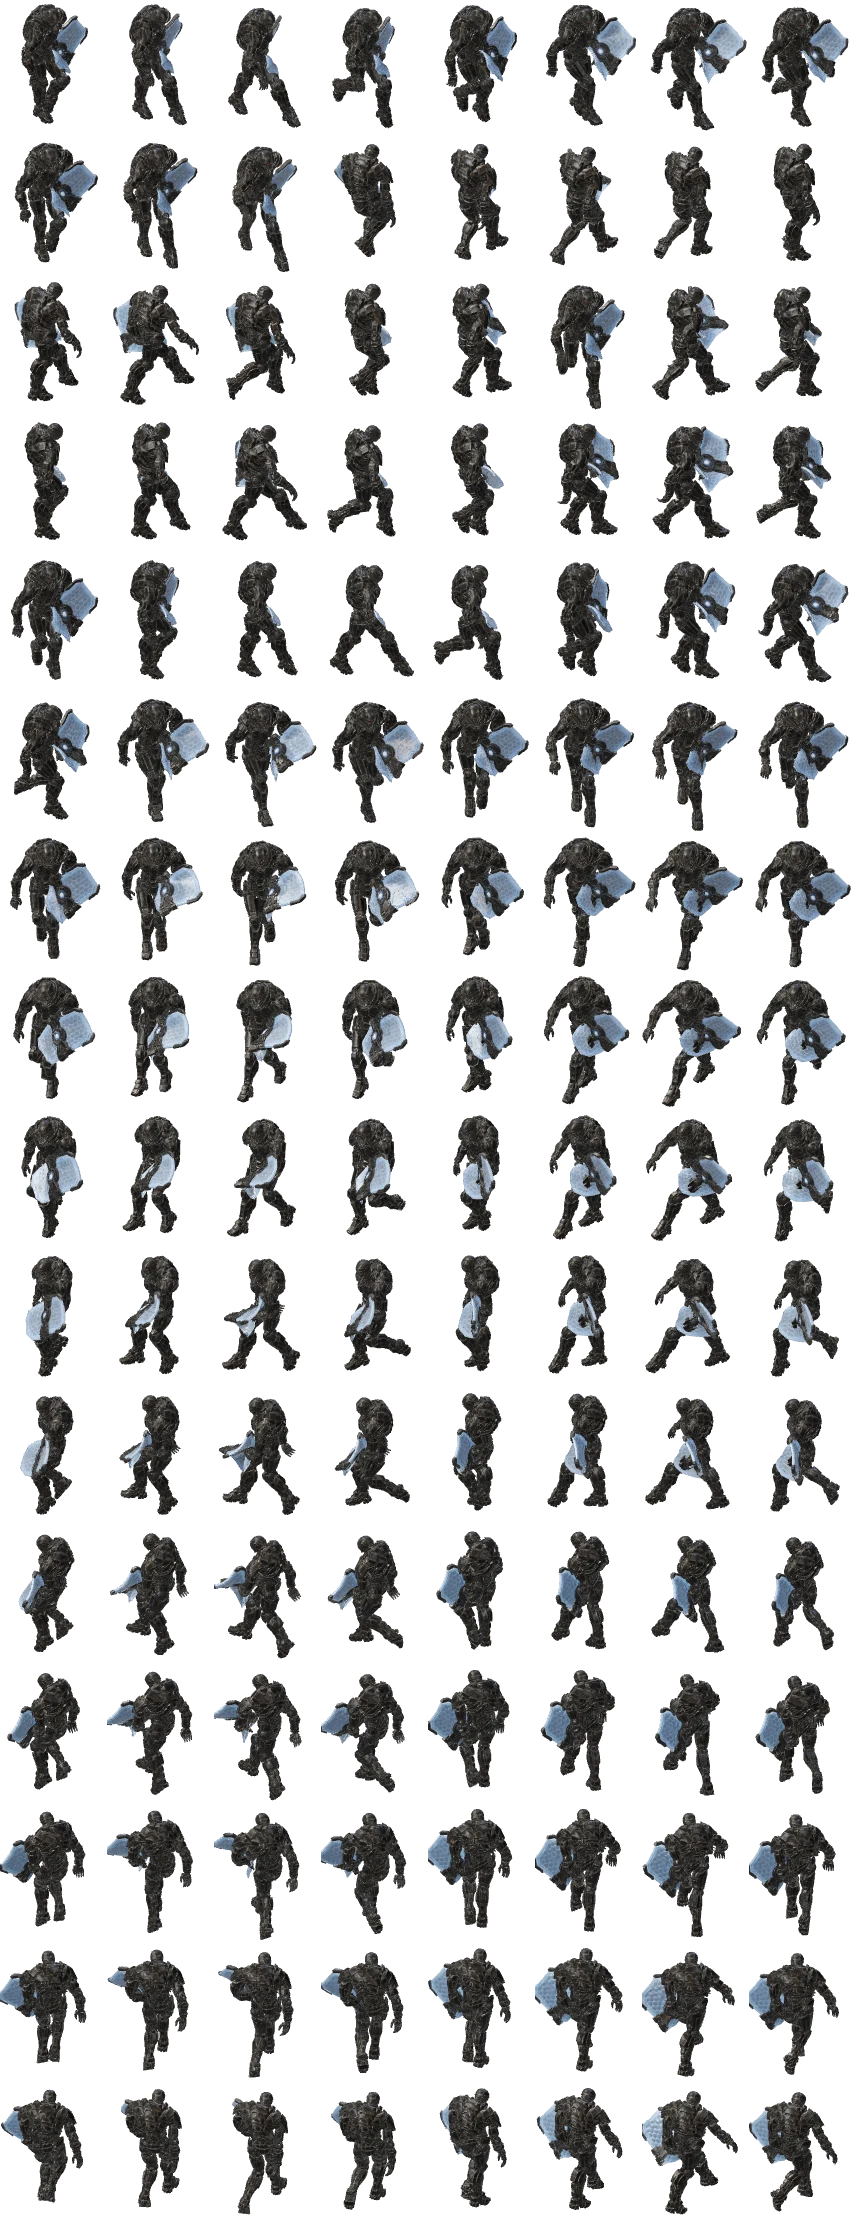
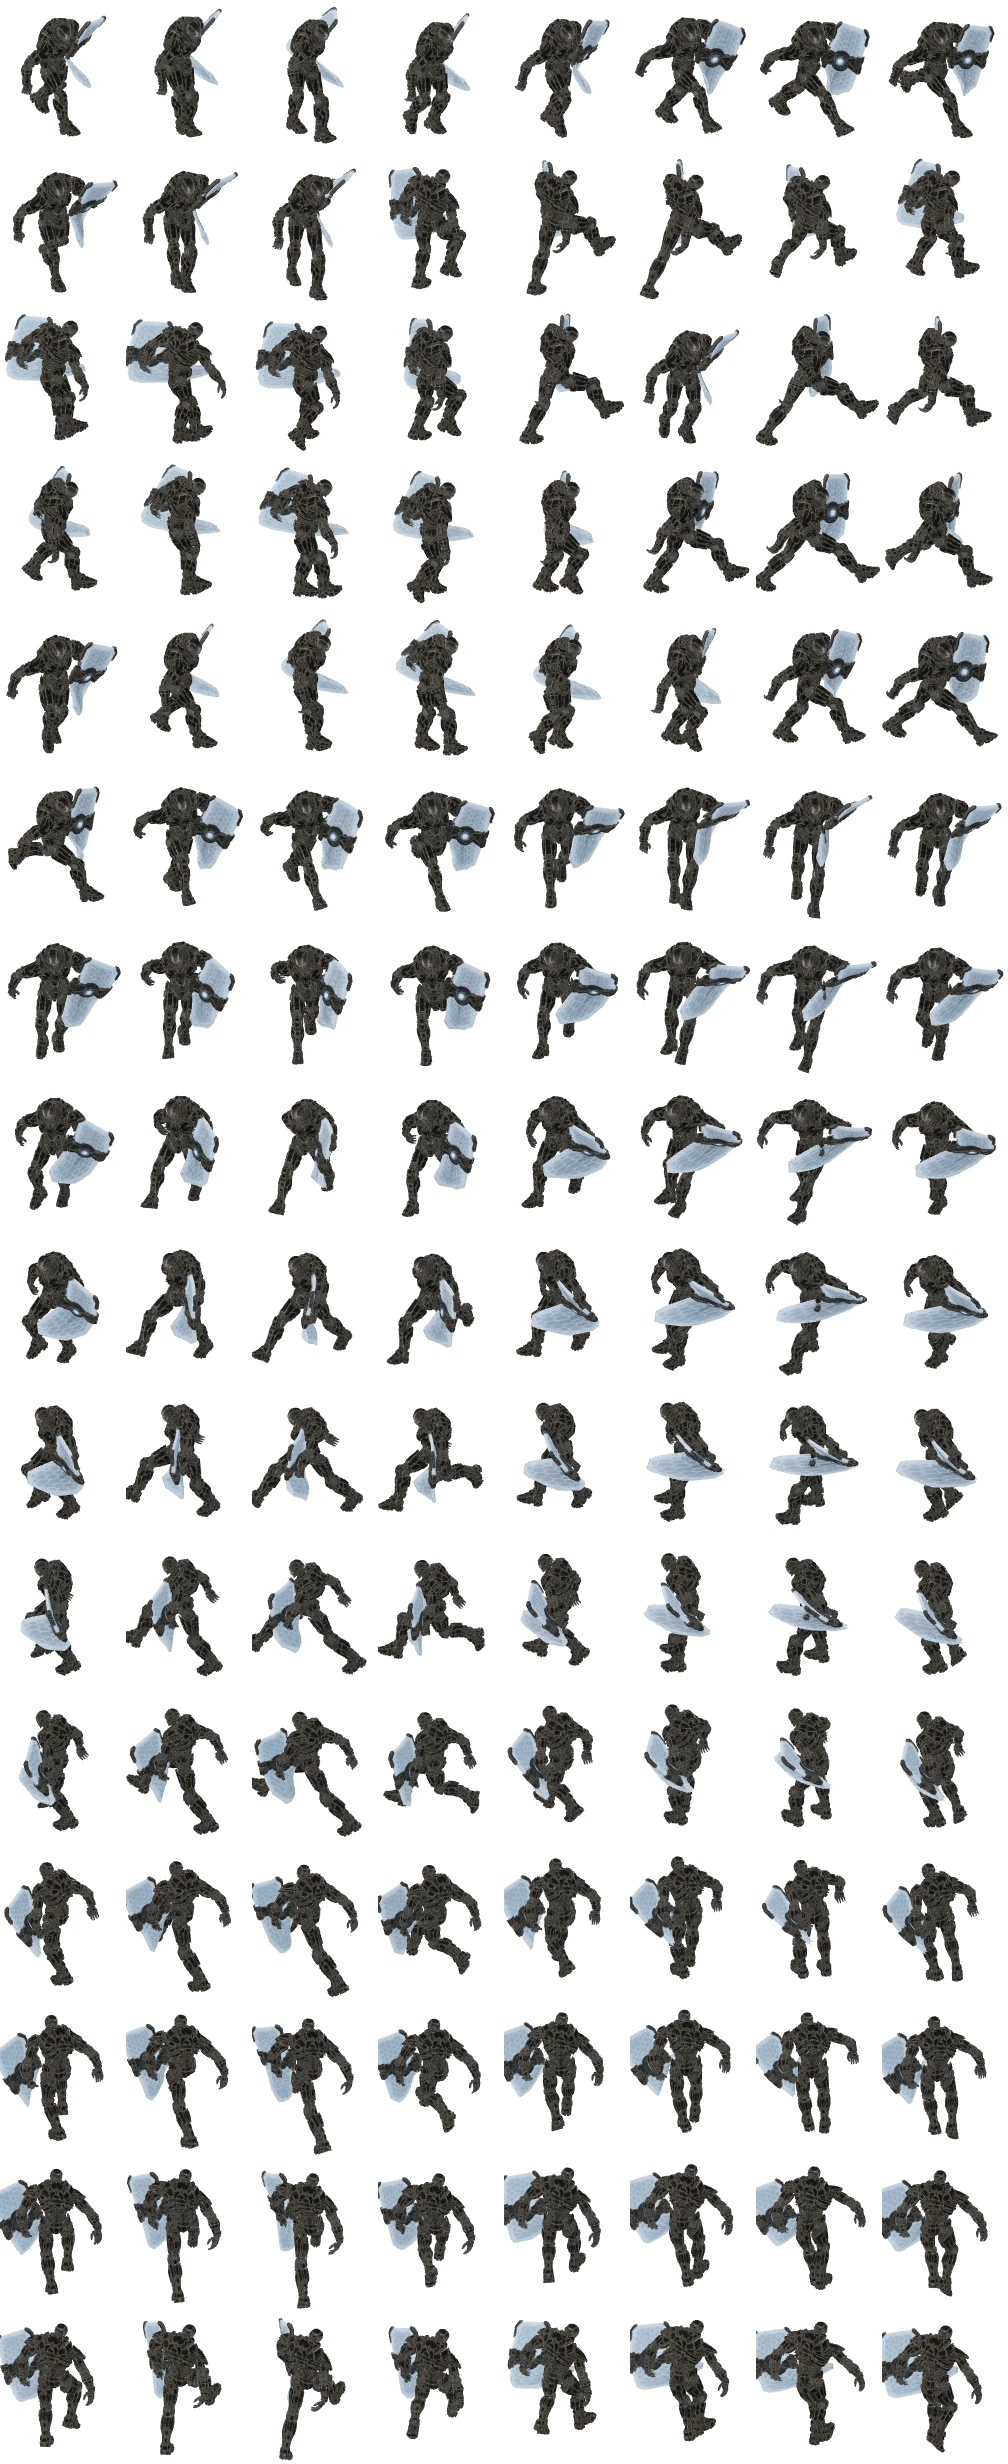
Fix units walking backwards, shrink enemies
- The endoskeleton had been rotated 180° before rigging, so Meshy fitted
  the skeleton backwards and it walked facing the wrong way. Re-rigged
  with the correct orientation (verified by rendering the face side and
  by measuring the planted-foot slide of the walk cycle)
- Renderer logs the measured foot direction for animated models
- Enemies drawn ~30% smaller (and lower flight heights) so they read as
  units next to the towers instead of giants

Claude-Session: https://claude.ai/code/session_01Qj1Y3LYrDV6JTdCHBwHGnj

Changed region(s): [[0.0, 0.0, 1.0, 1.0]]

diff --git a/js/config.js b/js/config.js
@@ -87,24 +87,24 @@ export function totalInvested(type, level) {
 // scale: extra draw scale on top of the model's real size (readability)
 // atk: weapon used against towers {dmg, range, rate, kind: laser|cannon|plasma|missile|shell, splash}
 export const ENEMIES = {
-  spider:   { motion: 'spider', stride: 0.22, name: 'Späher-Spinne',   model: 'enemy_spider',   hp: 40,   speed: 1.6,  armor: 0,  reward: 5,   leak: 1, cost: 1,  scale: 1.2 },
-  android:  { motion: 'biped', stride: 0.4, cycle: 0.8, name: 'Endoskelett',     model: 'enemy_android',  hp: 110,  speed: 0.95, armor: 1,  reward: 8,   leak: 1, cost: 2,  scale: 1.35,
+  spider:   { motion: 'spider', stride: 0.22, name: 'Späher-Spinne',   model: 'enemy_spider',   hp: 40,   speed: 1.6,  armor: 0,  reward: 5,   leak: 1, cost: 1,  scale: 0.9 },
+  android:  { motion: 'biped', stride: 0.4, cycle: 0.8, name: 'Endoskelett',     model: 'enemy_android',  hp: 110,  speed: 0.95, armor: 1,  reward: 8,   leak: 1, cost: 2,  scale: 0.9,
     atk: { dmg: 5, range: 1.8, rate: 1.0, kind: 'laser' } },
-  drone:    { motion: 'hover', name: 'Jäger-Drohne',    model: 'enemy_drone',    hp: 90,   speed: 1.3,  armor: 0,  reward: 11,  leak: 1, cost: 2.5, scale: 1.2, air: true, lift: 62,
+  drone:    { motion: 'hover', name: 'Jäger-Drohne',    model: 'enemy_drone',    hp: 90,   speed: 1.3,  armor: 0,  reward: 11,  leak: 1, cost: 2.5, scale: 0.9, air: true, lift: 52,
     atk: { dmg: 9, range: 2.2, rate: 0.6, kind: 'missile' } },
-  mech:     { motion: 'biped', stride: 0.5, cycle: 1.0, name: 'Sturm-Mech',      model: 'enemy_mech',     hp: 420,  speed: 0.68, armor: 4,  reward: 20,  leak: 2, cost: 7,  scale: 1.25,
+  mech:     { motion: 'biped', stride: 0.5, cycle: 1.0, name: 'Sturm-Mech',      model: 'enemy_mech',     hp: 420,  speed: 0.68, armor: 4,  reward: 20,  leak: 2, cost: 7,  scale: 0.9,
     atk: { dmg: 15, range: 2.2, rate: 0.8, kind: 'cannon' } },
-  tank:     { motion: 'tracks', name: 'HK-Panzer',       model: 'enemy_tank',     hp: 620,  speed: 0.55, armor: 8,  reward: 28,  leak: 3, cost: 10, scale: 1.2,
+  tank:     { motion: 'tracks', name: 'HK-Panzer',       model: 'enemy_tank',     hp: 620,  speed: 0.55, armor: 8,  reward: 28,  leak: 3, cost: 10, scale: 0.85,
     atk: { dmg: 28, range: 2.6, rate: 0.45, kind: 'plasma' } },
-  shield:   { motion: 'biped', stride: 0.4, cycle: 0.8, name: 'Schild-Android',  model: 'enemy_shield',   hp: 190,  speed: 0.8,  armor: 2,  reward: 16,  leak: 2, cost: 5,  scale: 1.3, shield: 240 },
-  repair:   { motion: 'tracks', name: 'Reparatur-Crawler', model: 'enemy_repair', hp: 250,  speed: 0.78, armor: 3,  reward: 18,  leak: 1, cost: 5,  scale: 1.25, heal: 26, healRange: 1.7 },
-  kamikaze: { motion: 'hover', name: 'Kamikaze-Drohne', model: 'enemy_kamikaze', hp: 55,   speed: 1.9,  armor: 0,  reward: 10,  leak: 1, cost: 3.5, scale: 1.25, air: true, lift: 46,
+  shield:   { motion: 'biped', stride: 0.4, cycle: 0.8, name: 'Schild-Android',  model: 'enemy_shield',   hp: 190,  speed: 0.8,  armor: 2,  reward: 16,  leak: 2, cost: 5,  scale: 0.9, shield: 240 },
+  repair:   { motion: 'tracks', name: 'Reparatur-Crawler', model: 'enemy_repair', hp: 250,  speed: 0.78, armor: 3,  reward: 18,  leak: 1, cost: 5,  scale: 0.85, heal: 26, healRange: 1.7 },
+  kamikaze: { motion: 'hover', name: 'Kamikaze-Drohne', model: 'enemy_kamikaze', hp: 55,   speed: 1.9,  armor: 0,  reward: 10,  leak: 1, cost: 3.5, scale: 0.95, air: true, lift: 40,
     dive: { range: 1.3, dmg: 95, splash: 0.6 } },
-  siege:    { motion: 'walker', stride: 0.7, name: 'Belagerungs-Walker', model: 'enemy_siege', hp: 720,  speed: 0.45, armor: 6,  reward: 40,  leak: 4, cost: 14, scale: 1.2,
+  siege:    { motion: 'walker', stride: 0.7, name: 'Belagerungs-Walker', model: 'enemy_siege', hp: 720,  speed: 0.45, armor: 6,  reward: 40,  leak: 4, cost: 14, scale: 0.85,
     atk: { dmg: 42, range: 3.0, rate: 0.25, kind: 'shell', splash: 0.7 } },
-  boss:     { motion: 'walker', stride: 0.95, name: 'Koloss',          model: 'enemy_boss',     hp: 3600, speed: 0.36, armor: 12, reward: 260, leak: 8, cost: 80, scale: 1.0, boss: true,
+  boss:     { motion: 'walker', stride: 0.95, name: 'Koloss',          model: 'enemy_boss',     hp: 3600, speed: 0.36, armor: 12, reward: 260, leak: 8, cost: 80, scale: 0.78, boss: true,
     atk: { dmg: 40, range: 3.0, rate: 0.9, kind: 'cannon' } },
-  mothership: { motion: 'hover', name: 'Mutterschiff',  model: 'enemy_mothership', hp: 3000, speed: 0.42, armor: 6, reward: 280, leak: 8, cost: 80, scale: 1.0, boss: true, air: true, lift: 100,
+  mothership: { motion: 'hover', name: 'Mutterschiff',  model: 'enemy_mothership', hp: 3000, speed: 0.42, armor: 6, reward: 280, leak: 8, cost: 80, scale: 0.78, boss: true, air: true, lift: 84,
     atk: { dmg: 30, range: 3.2, rate: 1.1, kind: 'missile' }, spawns: { type: 'kamikaze', every: 6.5, count: 2 } },
 };
 

diff --git a/tools/render/render.html b/tools/render/render.html
@@ -111,7 +111,7 @@ window.renderModel = async function (opt) {
   scene.add(pivot);
   current = { pivot };
   // optional walk cycle (rigged Meshy GLB): sample the first clip, keep the hips in place
-  let mixer = null, clip = null, hips = null, hips0 = null;
+  let mixer = null, clip = null, hips = null, hips0 = null, animYaw = null;
   if (opt.anim && gltf.animations.length) {
     clip = gltf.animations[0];
     mixer = new THREE.AnimationMixer(model);
@@ -121,6 +121,19 @@ window.renderModel = async function (opt) {
     if (!hips) model.traverse((o) => { if (!hips && o.isBone) hips = o; });
     pivot.updateMatrixWorld(true);
     hips0 = hips.getWorldPosition(new THREE.Vector3());
+    // facing from the skeleton: average ankle -> toe direction of both feet
+    const bone = (re) => { let b = null; model.traverse((o) => { if (!b && o.isBone && re.test(o.name)) b = o; }); return b; };
+    const pairs = [[/LeftFoot$/i, /LeftToe/i], [/RightFoot$/i, /RightToe/i]];
+    let fx = 0, fz = 0;
+    for (const [fa, ta] of pairs) {
+      const f = bone(fa), t = bone(ta);
+      if (!f || !t) continue;
+      const a = f.getWorldPosition(new THREE.Vector3()), b = t.getWorldPosition(new THREE.Vector3());
+      fx += b.x - a.x; fz += b.z - a.z;
+    }
+    const footYaw = (fx || fz) ? Math.atan2(fz, fx) : null;
+    if (opt.autoFacing && footYaw !== null) animYaw = footYaw;
+    console.log('feet point to (deg)', footYaw === null ? 'n/a' : (footYaw * 180 / Math.PI).toFixed(0));
   }
   const pose = (t) => {
     if (!mixer) return;
@@ -141,7 +154,7 @@ window.renderModel = async function (opt) {
   const cutY = opt.mode === 'tower' ? H * (opt.cut ?? 0.45) : null;
 
   // auto-detect forward direction / muzzle for turrets (farthest vertex from the axis above the cut)
-  let yaw0 = opt.yaw0 != null ? THREE.MathUtils.degToRad(opt.yaw0) : null;
+  let yaw0 = animYaw ?? (opt.yaw0 != null ? THREE.MathUtils.degToRad(opt.yaw0) : null);
   let muzzle = opt.muzzle ? new THREE.Vector3(...opt.muzzle) : null;
   let autoInfo = null;
   if (opt.mode === 'tower') {
